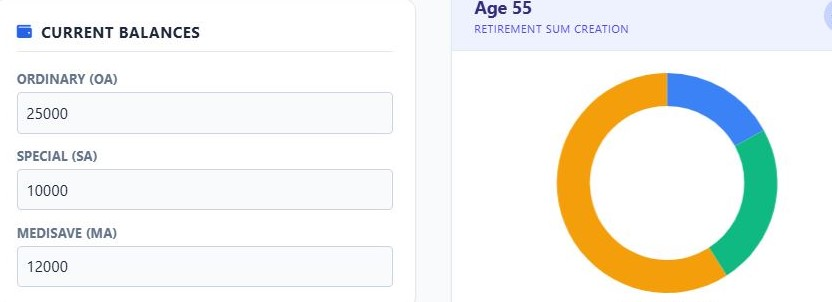
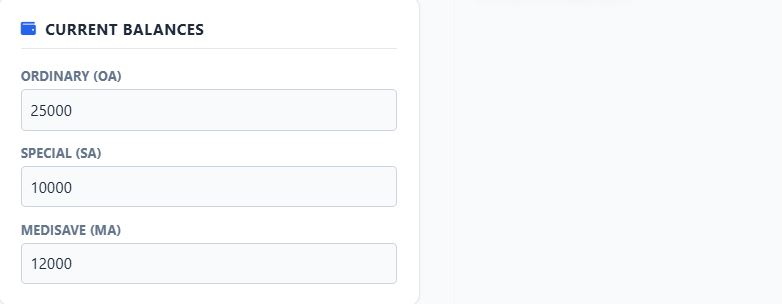
updated images

diff --git a/help.html b/help.html
@@ -102,7 +102,7 @@
 
                     <!-- Screenshot Placeholder -->
                     <div class="mb-4 rounded-lg overflow-hidden border border-slate-200 shadow-sm">
-                        <img src="https://placehold.co/600x200/f8fafc/cbd5e1?text=Screenshot:+Current+Balances+Card" alt="Current Balances Inputs" class="w-full h-auto">
+                        <img src="https://raw.githubusercontent.com/shamim-akhtar/cpf-sim/main/images/Balances.JPG" alt="Current Balances Inputs" class="w-full h-auto">
                     </div>
 
                     <div class="bg-white p-6 rounded-xl border border-slate-200 shadow-sm">
@@ -135,7 +135,7 @@
 
                     <!-- Screenshot Placeholder -->
                     <div class="mb-4 rounded-lg overflow-hidden border border-slate-200 shadow-sm">
-                        <img src="https://placehold.co/600x220/f8fafc/cbd5e1?text=Screenshot:+Projections+and+ERS+Toggle" alt="Projections Inputs" class="w-full h-auto">
+                        <img src="https://raw.githubusercontent.com/shamim-akhtar/cpf-sim/main/images/Projections.JPG" alt="Projections Inputs" class="w-full h-auto">
                     </div>
 
                     <div class="bg-white p-6 rounded-xl border border-slate-200 shadow-sm space-y-4">
@@ -168,7 +168,7 @@
 
                     <!-- Screenshot Placeholder -->
                     <div class="mb-4 rounded-lg overflow-hidden border border-slate-200 shadow-sm">
-                        <img src="https://placehold.co/600x350/f8fafc/cbd5e1?text=Screenshot:+Advanced+Panel+(Cash,+Housing,+Insurance)" alt="Advanced Inputs" class="w-full h-auto">
+                        <img src="https://raw.githubusercontent.com/shamim-akhtar/cpf-sim/main/images/Advanced.JPG" alt="Advanced Inputs" class="w-full h-auto">
                     </div>
 
                     <div class="bg-slate-50 p-6 rounded-xl border border-slate-200 shadow-inner space-y-4">
@@ -222,8 +222,8 @@
                                 <i class="fa-regular fa-id-card mr-2 text-blue-500"></i> Snapshot Cards (Age 55 & 65)
                             </h3>
                             <div class="flex flex-col md:flex-row gap-4 mb-4">
-                                <img src="https://placehold.co/300x150/f8fafc/cbd5e1?text=Card:+Age+55" class="rounded border border-slate-200 flex-1">
-                                <img src="https://placehold.co/300x150/f8fafc/cbd5e1?text=Card:+Age+65" class="rounded border border-slate-200 flex-1">
+                                <img src="https://raw.githubusercontent.com/shamim-akhtar/cpf-sim/main/images/55.JPG" class="rounded border border-slate-200 flex-1">
+                                <img src="https://raw.githubusercontent.com/shamim-akhtar/cpf-sim/main/images/65.JPG" class="rounded border border-slate-200 flex-1">
                             </div>
                             <p class="text-sm text-slate-600 mb-4">
                                 These cards show your exact account standings at critical milestones. 
@@ -253,7 +253,7 @@
                             </h3>
                             <!-- Screenshot Placeholder -->
                             <div class="mb-4 rounded overflow-hidden border border-slate-200 shadow-sm">
-                                <img src="https://placehold.co/600x150/f8fafc/cbd5e1?text=Screenshot:+Detailed+Ledger+Rows" alt="Ledger Screenshot" class="w-full h-auto">
+                                <img src="https://raw.githubusercontent.com/shamim-akhtar/cpf-sim/main/images/Ledger.JPG" alt="Ledger Screenshot" class="w-full h-auto">
                             </div>
                             <p class="text-sm text-slate-600 mb-4">
                                 The table at the bottom is the "source of truth". Look at the <strong>Notes</strong> column for colored pills:
